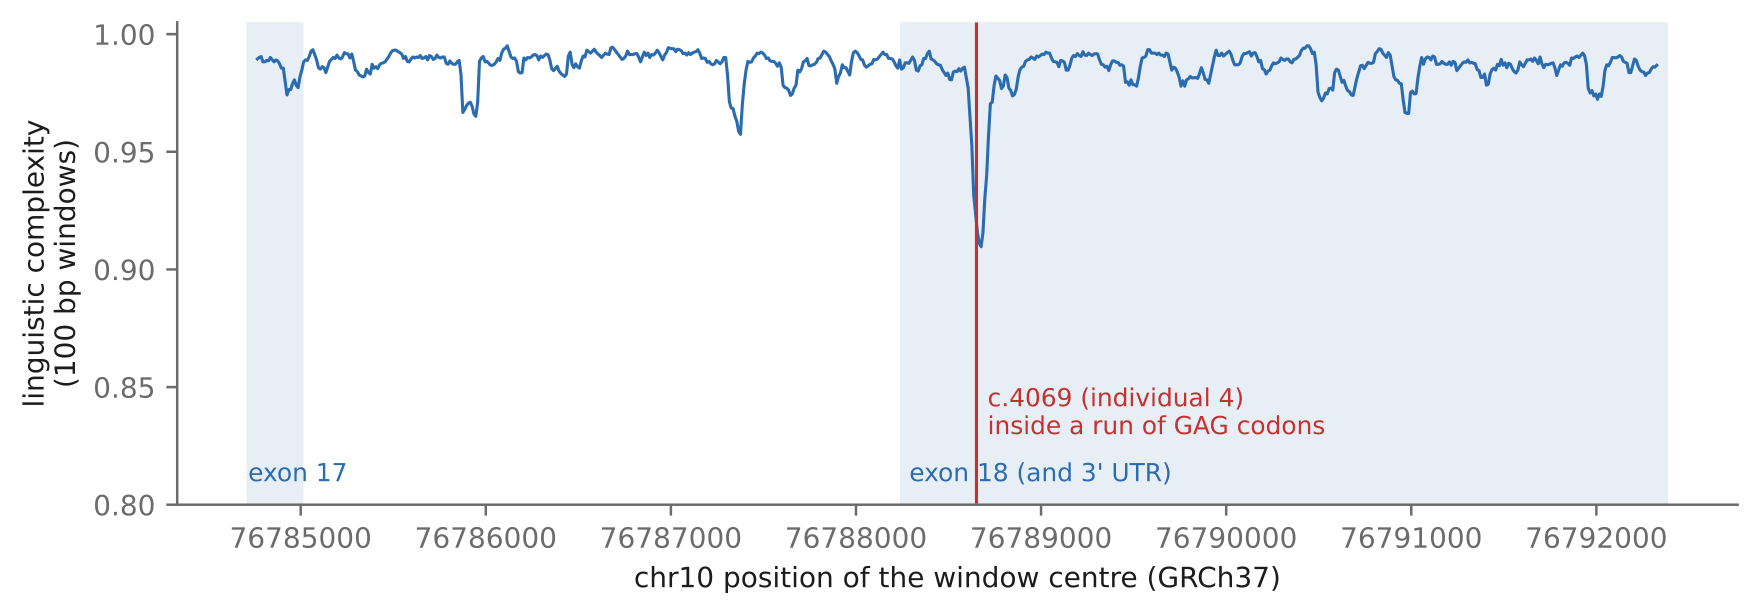
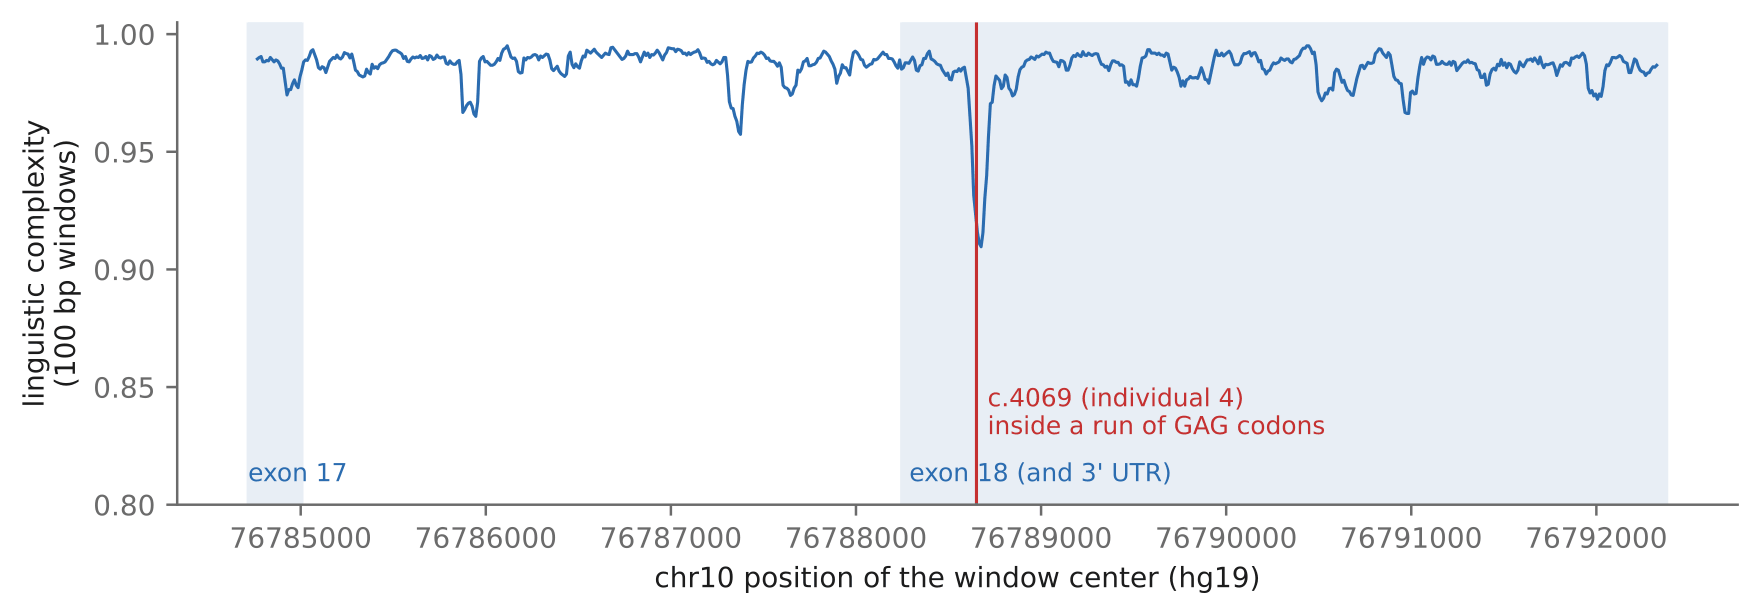
lab3: fig_kat6b_gene and fig_complexity labeled hg19 instead of GRCh37
Claude-Session: https://claude.ai/code/session_01X331f23NWAvXpmu5d4Sehv

Changed region(s): [[0.3438, 0.8945, 0.7188, 0.9562]]

diff --git a/README.md b/README.md
@@ -129,7 +129,7 @@ lab's data files; the original paper figures are not published here.
 | figure | lab | # | what it shows |
 |---|---|---|---|
 | `fig_claytonsmith_sanger` | Lab 3, Lab 3 Extra | 1, 4 | schematic of the Sanger traces of mother, individual 4 and father around KAT6B c.4069: one G peak in the parents, a G and a T in the child; after Fig. 1B |
-| `fig_kat6b_gene` | Lab 3 | 2 | KAT6B in the lab's data: 18 exons across 207 kb of GRCh37 and the 14 published variants, with exon 18 enlarged |
+| `fig_kat6b_gene` | Lab 3 | 2 | KAT6B in the lab's data: 18 exons across 207 kb of hg19 and the 14 published variants, with exon 18 enlarged |
 | `fig_claytonsmith_domains` | Lab 3 | 3 | schematic of the 2,073-residue protein with the MYST domain and the paper's mutation labels in three places; after Fig. 1C |
 | `fig_claytonsmith_variants` | Lab 3 | 4 | the variants of individuals 1 to 14 (coding change, protein change, exon, parents, comment), individuals 15 to 19 in one row; after Table 2 |
 | `fig_claytonsmith_primers` | Lab 3 | 5 | the 22 primer pairs, 5' to 3', with the published product sizes; after supplemental Table S2 |
